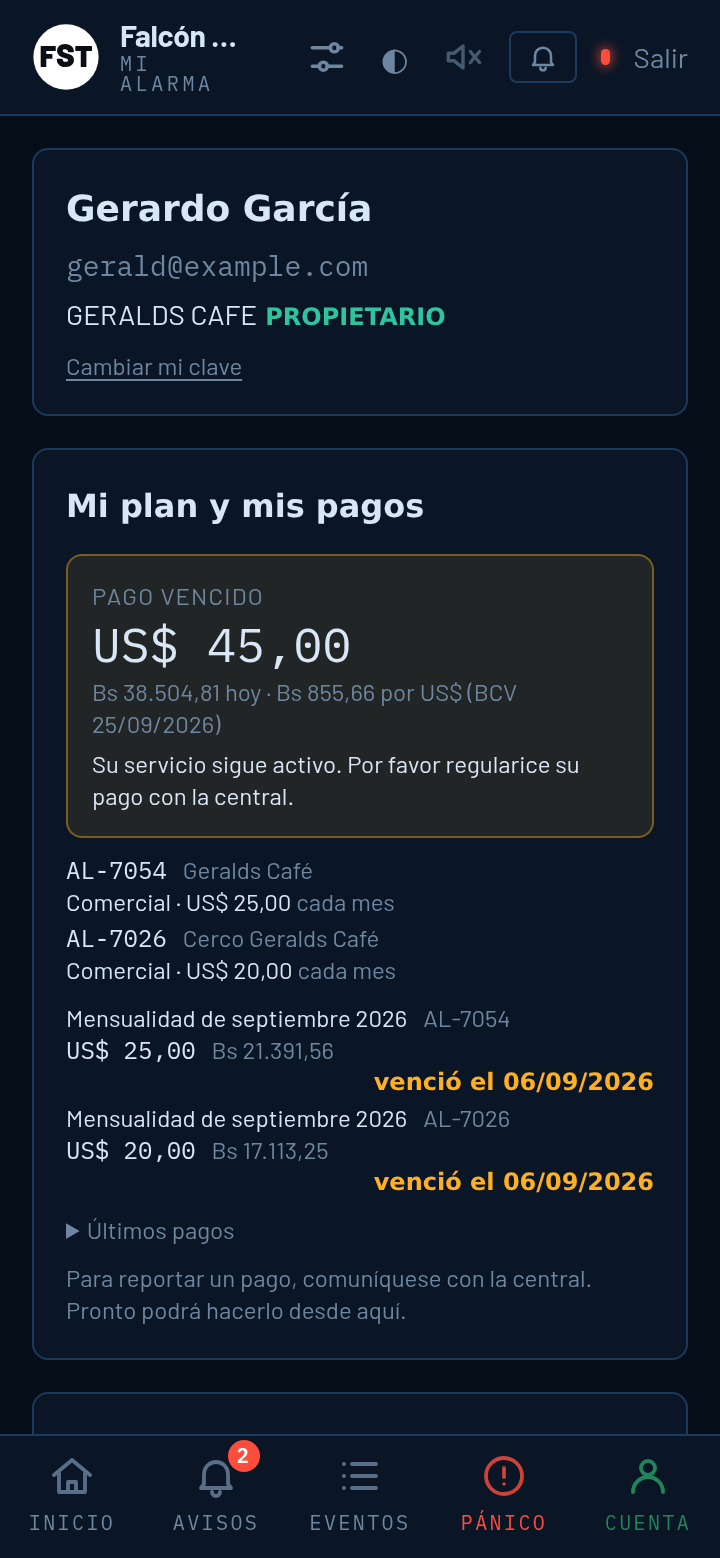
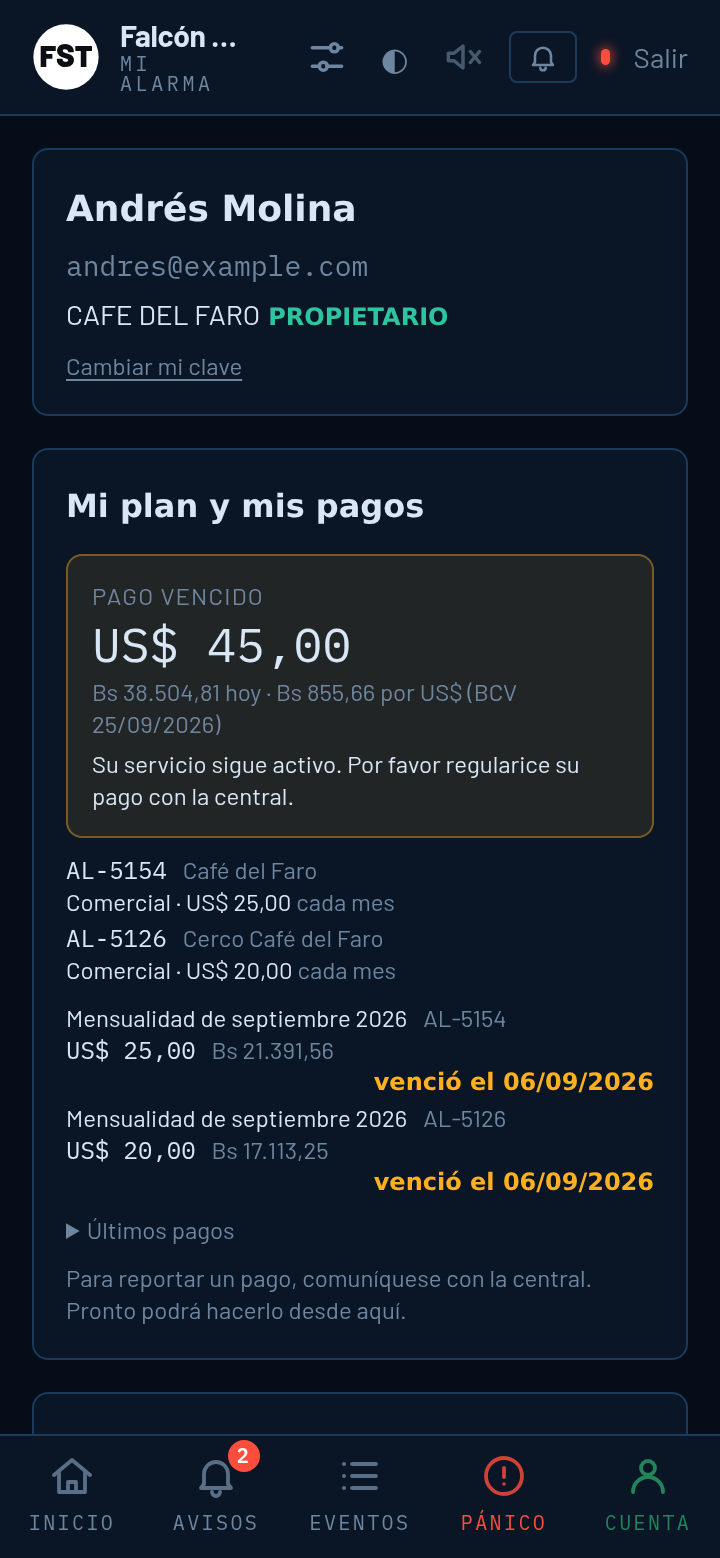
chore (harness + landing) : datos ficticios en vez de clientes reales
Los harness de la consola y las capturas del landing usaban nombres de
clientes, cuentas, contactos con teléfono y operadores reales. Ahora todo
es ficticio (Café del Faro, Panadería La Espiga, cuentas 51xx, teléfonos
0412-55501xx, operadores Daniel/Samuel/Valeria) y las capturas se
regeneraron con capturar.sh.

diff --git a/packages/console/harness/cliente.tsx b/packages/console/harness/cliente.tsx
@@ -13,8 +13,8 @@ const h = (dias: number, hora: string) => {
 // ?tipo=hikvision: el primer panel pasa a Hikvision, con estado detallado y control desde la app
 const tipoPanel = new URLSearchParams(location.search).get('tipo') === 'hikvision' ? 'hikvision' : 'pima';
 const panel = {
-  id: 50, numeroCuenta: '7054', prefijo: 'AL', tipo: tipoPanel, activo: true, ultimaSenalEn: h(0, '09:44'),
-  sitioId: 50, sitioNombre: 'Geralds Café', sitioDireccion: 'Variante Norte, Coro', clienteId: 50, clienteNombre: 'GERALDS CAFE',
+  id: 50, numeroCuenta: '5154', prefijo: 'AL', tipo: tipoPanel, activo: true, ultimaSenalEn: h(0, '09:44'),
+  sitioId: 50, sitioNombre: 'Café del Faro', sitioDireccion: 'Av. Los Médanos, Coro', clienteId: 50, clienteNombre: 'CAFE DEL FARO',
   estadoArmado: 'desarmado' as const, ultimoMovimientoEn: h(0, '11:22'),
 };
 const respuestas: Record<string, unknown> = {
@@ -32,26 +32,26 @@ const respuestas: Record<string, unknown> = {
     perifericos: [{ tipo: 'sirena', nombre: 'Sirena exterior', estado: 'normal', sabotaje: false }, { tipo: 'teclado', nombre: 'Teclado entrada', estado: 'normal', sabotaje: false }],
   },
   '/comandos': [
-    { id: 3, accion: 'armar', particion: '1', estado: 'ejecutado', detalle: null, creadoEn: h(0, '19:02'), resueltoEn: h(0, '19:02'), usuarioId: 9, usuarioNombre: 'Gerardo García', origen: 'cliente' },
-    { id: 2, accion: 'desarmar', particion: '1', estado: 'ejecutado', detalle: null, creadoEn: h(0, '07:58'), resueltoEn: h(0, '07:58'), usuarioId: 9, usuarioNombre: 'Gerardo García', origen: 'cliente' },
-    { id: 1, accion: 'armar', particion: '1', estado: 'ejecutado', detalle: null, creadoEn: h(1, '19:10'), resueltoEn: h(1, '19:10'), usuarioId: 2, usuarioNombre: 'Héctor', origen: 'operador' },
+    { id: 3, accion: 'armar', particion: '1', estado: 'ejecutado', detalle: null, creadoEn: h(0, '19:02'), resueltoEn: h(0, '19:02'), usuarioId: 9, usuarioNombre: 'Andrés Molina', origen: 'cliente' },
+    { id: 2, accion: 'desarmar', particion: '1', estado: 'ejecutado', detalle: null, creadoEn: h(0, '07:58'), resueltoEn: h(0, '07:58'), usuarioId: 9, usuarioNombre: 'Andrés Molina', origen: 'cliente' },
+    { id: 1, accion: 'armar', particion: '1', estado: 'ejecutado', detalle: null, creadoEn: h(1, '19:10'), resueltoEn: h(1, '19:10'), usuarioId: 2, usuarioNombre: 'Daniel', origen: 'operador' },
   ],
   'cliente/resumen': {
     paneles: [
       panel,
-      { ...panel, id: 24, numeroCuenta: '7026', sitioId: 24, sitioNombre: 'Cerco Geralds Café', sitioDireccion: 'Variante Norte, Coro', estadoArmado: 'armado' as const, ultimoMovimientoEn: h(0, '04:02'), ultimaSenalEn: h(0, '10:12') },
+      { ...panel, id: 24, numeroCuenta: '5126', sitioId: 24, sitioNombre: 'Cerco Café del Faro', sitioDireccion: 'Av. Los Médanos, Coro', estadoArmado: 'armado' as const, ultimoMovimientoEn: h(0, '04:02'), ultimaSenalEn: h(0, '10:12') },
     ],
     propietarioDe: [50],
   },
   'cliente/usuarios': [
-    { id: 9, nombre: 'Gerardo García', email: 'gerald@example.com', activo: true, clienteId: 50, clienteNombre: 'GERALDS CAFE', propietario: true, sitioId: null, sitioNombre: null, panelId: null },
-    { id: 12, nombre: 'Crisbelys Herrera', email: 'crisbelys@example.com', activo: true, clienteId: 50, clienteNombre: 'GERALDS CAFE', propietario: false, sitioId: null, sitioNombre: null, panelId: null },
-    { id: 14, nombre: 'Luis Alberto García', email: 'luis@example.com', activo: false, clienteId: 50, clienteNombre: 'GERALDS CAFE', propietario: false, sitioId: null, sitioNombre: null, panelId: null },
+    { id: 9, nombre: 'Andrés Molina', email: 'andres@example.com', activo: true, clienteId: 50, clienteNombre: 'CAFE DEL FARO', propietario: true, sitioId: null, sitioNombre: null, panelId: null },
+    { id: 12, nombre: 'Marta Lugo', email: 'marta@example.com', activo: true, clienteId: 50, clienteNombre: 'CAFE DEL FARO', propietario: false, sitioId: null, sitioNombre: null, panelId: null },
+    { id: 14, nombre: 'Pedro Salas', email: 'pedro@example.com', activo: false, clienteId: 50, clienteNombre: 'CAFE DEL FARO', propietario: false, sitioId: null, sitioNombre: null, panelId: null },
   ],
   'cliente/contactos': [
-    { id: 1, clienteId: 50, sitioId: 50, nombre: 'Enmanuel Chirinos', rol: 'Encargado', telefono: '04246009387', telefonoAlternativo: null, orden: 1, autorizadoCancelar: false },
-    { id: 2, clienteId: 50, sitioId: 50, nombre: 'Luis Alberto García', rol: 'Propietario', telefono: '04146835616', telefonoAlternativo: null, orden: 2, autorizadoCancelar: true },
-    { id: 3, clienteId: 50, sitioId: 50, nombre: 'Crisbelys Herrera', rol: 'Empleado', telefono: '04146780878', telefonoAlternativo: null, orden: 3, autorizadoCancelar: false },
+    { id: 1, clienteId: 50, sitioId: 50, nombre: 'Julio Navas', rol: 'Encargado', telefono: '0412-5550102', telefonoAlternativo: null, orden: 1, autorizadoCancelar: false },
+    { id: 2, clienteId: 50, sitioId: 50, nombre: 'Pedro Salas', rol: 'Propietario', telefono: '0412-5550103', telefonoAlternativo: null, orden: 2, autorizadoCancelar: true },
+    { id: 3, clienteId: 50, sitioId: 50, nombre: 'Marta Lugo', rol: 'Empleado', telefono: '0412-5550104', telefonoAlternativo: null, orden: 3, autorizadoCancelar: false },
   ],
   'cliente/alarmas': [],
   'cliente/cobros': {
@@ -59,15 +59,15 @@ const respuestas: Record<string, unknown> = {
     clientes: [
       {
         clienteId: 50,
-        nombre: 'Geralds Café',
+        nombre: 'Café del Faro',
         exonerado: false,
         dispositivos: [
-          { panelId: 23, numeroCuenta: '7054', prefijo: 'AL', sitioNombre: 'Geralds Café', exonerado: false, plan: 'Comercial', precioUsd: 25, meses: 1, proximoVencimiento: '2026-10-01' },
-          { panelId: 24, numeroCuenta: '7026', prefijo: 'AL', sitioNombre: 'Cerco Geralds Café', exonerado: false, plan: 'Comercial', precioUsd: 20, meses: 1, proximoVencimiento: '2026-10-01' },
+          { panelId: 23, numeroCuenta: '5154', prefijo: 'AL', sitioNombre: 'Café del Faro', exonerado: false, plan: 'Comercial', precioUsd: 25, meses: 1, proximoVencimiento: '2026-10-01' },
+          { panelId: 24, numeroCuenta: '5126', prefijo: 'AL', sitioNombre: 'Cerco Café del Faro', exonerado: false, plan: 'Comercial', precioUsd: 20, meses: 1, proximoVencimiento: '2026-10-01' },
         ],
         cuotasPendientes: [
-          { id: 9, concepto: 'Mensualidad de septiembre 2026', numeroCuenta: '7054', prefijo: 'AL', venceEn: '2026-09-06', montoUsd: 25, pagadoUsd: 0, vencida: true },
-          { id: 10, concepto: 'Mensualidad de septiembre 2026', numeroCuenta: '7026', prefijo: 'AL', venceEn: '2026-09-06', montoUsd: 20, pagadoUsd: 0, vencida: true },
+          { id: 9, concepto: 'Mensualidad de septiembre 2026', numeroCuenta: '5154', prefijo: 'AL', venceEn: '2026-09-06', montoUsd: 25, pagadoUsd: 0, vencida: true },
+          { id: 10, concepto: 'Mensualidad de septiembre 2026', numeroCuenta: '5126', prefijo: 'AL', venceEn: '2026-09-06', montoUsd: 20, pagadoUsd: 0, vencida: true },
         ],
         ultimosPagos: [
           { id: 2, fecha: '2026-08-03', montoUsd: 45, montoBs: 37200.5, forma: 'pago_movil', referencia: '4471', estado: 'confirmado' },
@@ -83,11 +83,11 @@ const respuestas: Record<string, unknown> = {
   'cliente/preferencias': { armadoDesarmado: true, averias: true, sistema: true, silencioDesde: '22:00', silencioHasta: '07:00' },
   'paneles/50/zonas': [
     { numero: '001', descripcion: 'Cocina - Atención al cliente INFRA' }, { numero: '002', descripcion: 'Oficina principal - Pasillo INFRA' },
-    { numero: '003', descripcion: 'Gerencia Oficina Gerardo INFRA' }, { numero: '005', descripcion: 'Puerta trasera MAG' },
+    { numero: '003', descripcion: 'Gerencia INFRA' }, { numero: '005', descripcion: 'Puerta trasera MAG' },
     { numero: '007', descripcion: 'Puerta trasera exterior PULSADOR' }, { numero: '008', descripcion: 'Caja PULSADOR' }, { numero: '014', descripcion: 'Entrada INFRA' },
   ],
   'cliente/eventos': [
-    { id: 1, panelId: 50, categoria: 'apertura', codigo: 'E401', descripcion: 'Apertura (desarmado): Apertura/Cierre por usuario — Crisbelys Herrera (cód. 6)', zona: '006', zonaDescripcion: null, ocurridoEn: h(0, '11:22') },
+    { id: 1, panelId: 50, categoria: 'apertura', codigo: 'E401', descripcion: 'Apertura (desarmado): Apertura/Cierre por usuario — Marta Lugo (cód. 6)', zona: '006', zonaDescripcion: null, ocurridoEn: h(0, '11:22') },
     { id: 2, panelId: 50, categoria: 'cierre', codigo: 'R401', descripcion: 'Cierre (armado): Apertura/Cierre por usuario — Augusto Hernández (cód. 1)', zona: '001', zonaDescripcion: null, ocurridoEn: h(0, '04:02') },
     { id: 3, panelId: 50, categoria: 'alarma', codigo: 'E130', descripcion: 'Robo: Robo perímetro', zona: '005', zonaDescripcion: 'Puerta trasera MAG', ocurridoEn: h(1, '23:41') },
     { id: 4, panelId: 50, categoria: 'restauracion', codigo: 'R130', descripcion: 'Restauración: Robo perímetro', zona: '005', zonaDescripcion: 'Puerta trasera MAG', ocurridoEn: h(1, '23:43') },
@@ -122,7 +122,7 @@ if (variante && estilos[variante]) {
 localStorage.setItem('monitoring.avisos.vistoHasta', String(hoy.getTime() - 20 * 3_600_000));
 createRoot(document.getElementById('raiz')!).render(
   <QueryClientProvider client={new QueryClient()}>
-    <PantallaCliente usuario={{ id: 9, email: 'gerald@example.com', nombre: 'Gerardo García', rol: 'cliente' }} />
+    <PantallaCliente usuario={{ id: 9, email: 'andres@example.com', nombre: 'Andrés Molina', rol: 'cliente' }} />
   </QueryClientProvider>,
 );
 // #avisos abre la pestaña de avisos; #panel abre la pantalla del panel

diff --git a/packages/console/harness/cola.tsx b/packages/console/harness/cola.tsx
@@ -5,25 +5,25 @@ import '../src/index.css';
 
 const alarma = (id: number, codigo: string, descripcion: string, cuenta: string, cliente: string, zona: string | null, estado: 'nueva' | 'en_atencion', prioridad = 2, tipo = 'robo', clienteId = 3) => ({
   id, estado, prioridad, operadorId: estado === 'en_atencion' ? 2 : null, creadoEn: '2026-09-15T02:49:46Z', tomadaEn: estado === 'en_atencion' ? '2026-09-17T15:40:02Z' : null, cerradaEn: null,
-  desenlace: null, motivo: null, resolucion: null, operadorNombre: estado === 'en_atencion' ? 'Héctor' : null, panelId: 3, zonaDescripcion: null, clienteId, clienteNombre: cliente, prefijo: 'AL',
+  desenlace: null, motivo: null, resolucion: null, operadorNombre: estado === 'en_atencion' ? 'Daniel' : null, panelId: 3, zonaDescripcion: null, clienteId, clienteNombre: cliente, prefijo: 'AL',
   evento: { id, senalId: 10, codigo, categoria: 'alarma', descripcion, numeroCuenta: cuenta, particion: '01', zona, ocurridoEn: '2026-09-15T02:49:46Z', tipo },
 });
 const alarmas = [
-  { ...alarma(1, 'E140', 'Alarma en zona 11', '7002', 'PANADERIA K3', '011', 'en_atencion'), restauradaEn: '2026-09-17T15:52:00Z' },
-  { ...alarma(2, 'E140', 'Alarma general', '7048', 'COMERCIAL GALIVEN', null, 'nueva', 2, 'robo', 8), panelId: 8 },
-  { ...alarma(3, 'E140', 'Alarma en zona 17', '7048', 'COMERCIAL GALIVEN', '017', 'nueva', 2, 'robo', 8), panelId: 8 },
-  { ...alarma(5, 'E140', 'Alarma en zona 18', '7048', 'COMERCIAL GALIVEN', '018', 'nueva', 2, 'robo', 8), panelId: 8 },
-  { ...alarma(4, 'E120', 'Pánico', '7075', 'ROMULO REYES', '004', 'nueva', 1, 'emergencia', 9), panelId: 9 },
-  { ...alarma(6, 'E301', 'Falla de red eléctrica', '7031', 'FARMACIA LA COSTA', null, 'nueva', 3, 'averia', 10), panelId: 10, prefijo: 'HIK' },
-  { ...alarma(7, 'E302', 'Batería baja', '7031', 'FARMACIA LA COSTA', null, 'nueva', 3, 'averia', 10), panelId: 10, prefijo: 'HIK' },
-  { ...alarma(8, 'PIMA-TO', 'No ha cerrado a horario', '7112', 'LICORERIA EL SOL', null, 'nueva', 3, 'horario', 11), panelId: 11 },
-  { ...alarma(9, 'E602', 'Prueba periódica', '7037', 'MATARILE', null, 'nueva', 5, 'prueba', 12), panelId: 12, prefijo: 'EBS' },
-  { ...alarma(10, 'SIS', 'Panel silencioso: sin señales hace 26 h', '7090', 'BODEGON CENTRAL', null, 'nueva', 2, 'sistema', 13), panelId: 13 },
-  { ...alarma(11, 'E130', 'Robo: Robo perímetro', '7016', 'FERRETERIA PEPINO', '001', 'nueva', 2, 'robo', 18), panelId: 18, creadoEn: new Date().toISOString(), enVerificacionHasta: new Date(Date.now() + 38_000).toISOString() },
+  { ...alarma(1, 'E140', 'Alarma en zona 11', '5102', 'PANADERIA LA ESPIGA', '011', 'en_atencion'), restauradaEn: '2026-09-17T15:52:00Z' },
+  { ...alarma(2, 'E140', 'Alarma general', '5148', 'COMERCIAL ANDINA', null, 'nueva', 2, 'robo', 8), panelId: 8 },
+  { ...alarma(3, 'E140', 'Alarma en zona 17', '5148', 'COMERCIAL ANDINA', '017', 'nueva', 2, 'robo', 8), panelId: 8 },
+  { ...alarma(5, 'E140', 'Alarma en zona 18', '5148', 'COMERCIAL ANDINA', '018', 'nueva', 2, 'robo', 8), panelId: 8 },
+  { ...alarma(4, 'E120', 'Pánico', '5175', 'RESIDENCIA MOLINA', '004', 'nueva', 1, 'emergencia', 9), panelId: 9 },
+  { ...alarma(6, 'E301', 'Falla de red eléctrica', '5131', 'FARMACIA VIDA', null, 'nueva', 3, 'averia', 10), panelId: 10, prefijo: 'HIK' },
+  { ...alarma(7, 'E302', 'Batería baja', '5131', 'FARMACIA VIDA', null, 'nueva', 3, 'averia', 10), panelId: 10, prefijo: 'HIK' },
+  { ...alarma(8, 'PIMA-TO', 'No ha cerrado a horario', '5112', 'LICORERIA EL MUELLE', null, 'nueva', 3, 'horario', 11), panelId: 11 },
+  { ...alarma(9, 'E602', 'Prueba periódica', '5137', 'DEPOSITO NORTE', null, 'nueva', 5, 'prueba', 12), panelId: 12, prefijo: 'EBS' },
+  { ...alarma(10, 'SIS', 'Panel silencioso: sin señales hace 26 h', '5190', 'BODEGON LOS MEDANOS', null, 'nueva', 2, 'sistema', 13), panelId: 13 },
+  { ...alarma(11, 'E130', 'Robo: Robo perímetro', '5116', 'FERRETERIA EL TORNILLO', '001', 'nueva', 2, 'robo', 18), panelId: 18, creadoEn: new Date().toISOString(), enVerificacionHasta: new Date(Date.now() + 38_000).toISOString() },
 ];
 const respuestas: Record<string, unknown> = {
-  '/contexto': { cliente: { id: 1, nombre: 'PANADERIA K3', telefono: null, instrucciones: null, estado: 'activo', motivoEstado: null }, sitio: { id: 3, nombre: 'PANADERIA K3', tipo: 'comercial', direccion: null, ciudad: null, referencia: null, latitud: null, longitud: null, telefono: null, llaves: null, instruccionesAcceso: null, instrucciones: null }, panel: { id: 3, numeroCuenta: '7002', alias: null, tipo: 'otro', marca: null, modelo: null, claveMaestra: null }, contactos: [], zonaDescripcion: null, pasos: ['Llamar al sitio y pedir la palabra clave', 'Llamar a los contactos por orden de la lista', 'Despachar móvil si no se puede verificar'], pasosCumplidos: [], horarios: [{ id: 1, panelId: 3, dias: 'LMXJV--', apertura: '07:00', cierre: '19:00', toleranciaMin: 15, activo: true }], usuariosPanel: [{ id: 1, panelId: 3, numero: '001', nombre: 'Ana Pérez', telefono: '0414-1111111', contactoId: null }, { id: 2, panelId: 3, numero: '006', nombre: 'Luis Gómez', telefono: null, contactoId: null }], previas: [{ id: 40, codigo: 'E140', descripcion: 'Alarma en zona 11', creadoEn: '2026-09-15T21:22:00Z', cerradaEn: '2026-09-15T21:40:00Z', desenlace: 'falsa_alarma', resolucion: 'Mascota u objeto en movimiento', operadorNombre: 'Brayan' }] },
-  '/acciones': [{ id: 1, alarmaId: 1, operadorId: 2, operadorNombre: 'Héctor', tipo: 'toma', detalle: 'Tomada tras 60 h 50 min de espera', creadoEn: '2026-09-17T15:40:02Z' }],
+  '/contexto': { cliente: { id: 1, nombre: 'PANADERIA LA ESPIGA', telefono: null, instrucciones: null, estado: 'activo', motivoEstado: null }, sitio: { id: 3, nombre: 'PANADERIA LA ESPIGA', tipo: 'comercial', direccion: null, ciudad: null, referencia: null, latitud: null, longitud: null, telefono: null, llaves: null, instruccionesAcceso: null, instrucciones: null }, panel: { id: 3, numeroCuenta: '5102', alias: null, tipo: 'otro', marca: null, modelo: null, claveMaestra: null }, contactos: [], zonaDescripcion: null, pasos: ['Llamar al sitio y pedir la palabra clave', 'Llamar a los contactos por orden de la lista', 'Despachar móvil si no se puede verificar'], pasosCumplidos: [], horarios: [{ id: 1, panelId: 3, dias: 'LMXJV--', apertura: '07:00', cierre: '19:00', toleranciaMin: 15, activo: true }], usuariosPanel: [{ id: 1, panelId: 3, numero: '001', nombre: 'Laura Ríos', telefono: '0412-5550101', contactoId: null }, { id: 2, panelId: 3, numero: '006', nombre: 'Carlos Peña', telefono: null, contactoId: null }], previas: [{ id: 40, codigo: 'E140', descripcion: 'Alarma en zona 11', creadoEn: '2026-09-15T21:22:00Z', cerradaEn: '2026-09-15T21:40:00Z', desenlace: 'falsa_alarma', resolucion: 'Mascota u objeto en movimiento', operadorNombre: 'Samuel' }] },
+  '/acciones': [{ id: 1, alarmaId: 1, operadorId: 2, operadorNombre: 'Daniel', tipo: 'toma', detalle: 'Tomada tras 60 h 50 min de espera', creadoEn: '2026-09-17T15:40:02Z' }],
   '/alarmas': alarmas,
 };
 window.fetch = async (entrada: RequestInfo | URL) => {

diff --git a/packages/console/harness/cobros.tsx b/packages/console/harness/cobros.tsx
@@ -4,26 +4,26 @@ import { Cobros } from '../src/vistas/Cobros.js';
 import '../src/index.css';
 
 const tasa = { valor: 855.6625, fechaValor: '2026-09-25', fuente: 'bcv', obtenidoEn: '2026-09-24T20:00:00Z' };
-const cuota = (id: number, concepto: string, desde: string, hasta: string, vence: string, monto: number, pagado: number, estado: string, cuenta = '7002') => ({
+const cuota = (id: number, concepto: string, desde: string, hasta: string, vence: string, monto: number, pagado: number, estado: string, cuenta = '5102') => ({
   id, panelId: 3, numeroCuenta: cuenta, prefijo: 'AL', concepto, periodoDesde: desde, periodoHasta: hasta, venceEn: vence, montoUsd: monto, pagadoUsd: pagado, estado,
 });
 const respuestas: Record<string, unknown> = {
   '/cobros/resumen': { morosos: 3, vencidoUsd: 185, pendienteUsd: 640, porVencer: 12, cobradoMesUsd: 1275, facturadoMesUsd: 1590, tasa },
   '/cobros/clientes/1': {
-    cliente: { id: 1, nombre: 'PANADERIA K3', exonerado: false },
+    cliente: { id: 1, nombre: 'PANADERIA LA ESPIGA', exonerado: false },
     dispositivos: [
-      { panelId: 3, numeroCuenta: '7002', prefijo: 'AL', sitioNombre: 'Panadería K3 · Centro', activo: true, exonerado: false, planId: 1, planNombre: 'Comercial', planPrecioUsd: 25, montoAbono: null, precioUsd: 25, meses: 1, proximoVencimiento: '2026-10-01' },
-      { panelId: 4, numeroCuenta: '7003', prefijo: 'AL', sitioNombre: 'Depósito', activo: true, exonerado: false, planId: 1, planNombre: 'Comercial', planPrecioUsd: 25, montoAbono: 20, precioUsd: 20, meses: 1, proximoVencimiento: '2026-10-01' },
+      { panelId: 3, numeroCuenta: '5102', prefijo: 'AL', sitioNombre: 'Panadería La Espiga · Centro', activo: true, exonerado: false, planId: 1, planNombre: 'Comercial', planPrecioUsd: 25, montoAbono: null, precioUsd: 25, meses: 1, proximoVencimiento: '2026-10-01' },
+      { panelId: 4, numeroCuenta: '5103', prefijo: 'AL', sitioNombre: 'Depósito', activo: true, exonerado: false, planId: 1, planNombre: 'Comercial', planPrecioUsd: 25, montoAbono: 20, precioUsd: 20, meses: 1, proximoVencimiento: '2026-10-01' },
     ],
     cuotas: [
       cuota(9, 'Mensualidad de septiembre 2026', '2026-09-01', '2026-09-30', '2026-09-06', 25, 0, 'pendiente'),
-      cuota(10, 'Mensualidad de septiembre 2026', '2026-09-01', '2026-09-30', '2026-09-06', 20, 0, 'pendiente', '7003'),
+      cuota(10, 'Mensualidad de septiembre 2026', '2026-09-01', '2026-09-30', '2026-09-06', 20, 0, 'pendiente', '5103'),
       cuota(7, 'Mensualidad de agosto 2026', '2026-08-01', '2026-08-31', '2026-08-06', 25, 25, 'pagada'),
-      cuota(8, 'Mensualidad de agosto 2026', '2026-08-01', '2026-08-31', '2026-08-06', 20, 20, 'pagada', '7003'),
+      cuota(8, 'Mensualidad de agosto 2026', '2026-08-01', '2026-08-31', '2026-08-06', 20, 20, 'pagada', '5103'),
       cuota(5, 'Mensualidad de julio 2026', '2026-07-01', '2026-07-31', '2026-07-06', 25, 25, 'pagada'),
     ],
     pagos: [
-      { id: 2, montoUsd: 45, montoBs: 37200.5, tasa: 826.68, forma: 'pago_movil', referencia: '4471', fecha: '2026-08-03', nota: null, estado: 'confirmado', registradoPorNombre: 'Frandder', creadoEn: '2026-08-03T14:00:00Z' },
+      { id: 2, montoUsd: 45, montoBs: 37200.5, tasa: 826.68, forma: 'pago_movil', referencia: '4471', fecha: '2026-08-03', nota: null, estado: 'confirmado', registradoPorNombre: 'Valeria', creadoEn: '2026-08-03T14:00:00Z' },
       { id: 1, montoUsd: 25, montoBs: null, tasa: null, forma: 'zelle', referencia: null, fecha: '2026-07-02', nota: 'pagó el hijo', estado: 'confirmado', registradoPorNombre: 'Admin', creadoEn: '2026-07-02T14:00:00Z' },
     ],
     pendienteUsd: 45,
@@ -32,12 +32,12 @@ const respuestas: Record<string, unknown> = {
     tasa,
   },
   '/cobros/clientes': [
-    { clienteId: 1, nombre: 'PANADERIA K3', telefono: null, exonerado: false, dispositivos: 2, pendienteUsd: 45, vencidoUsd: 45, cuotasVencidas: 2, proximaVence: '2026-09-06', ultimoPago: '2026-08-03' },
-    { clienteId: 2, nombre: 'COMERCIAL GALIVEN', telefono: null, exonerado: false, dispositivos: 1, pendienteUsd: 90, vencidoUsd: 90, cuotasVencidas: 3, proximaVence: '2026-07-06', ultimoPago: '2026-06-10' },
-    { clienteId: 3, nombre: 'FARMACIA LA COSTA', telefono: null, exonerado: false, dispositivos: 1, pendienteUsd: 50, vencidoUsd: 50, cuotasVencidas: 1, proximaVence: '2026-09-06', ultimoPago: '2026-08-28' },
-    { clienteId: 4, nombre: 'FERRETERIA PEPINO', telefono: null, exonerado: false, dispositivos: 1, pendienteUsd: 25, vencidoUsd: 0, cuotasVencidas: 0, proximaVence: '2026-10-06', ultimoPago: '2026-09-02' },
-    { clienteId: 5, nombre: 'LICORERIA EL SOL', telefono: null, exonerado: false, dispositivos: 1, pendienteUsd: 0, vencidoUsd: 0, cuotasVencidas: 0, proximaVence: null, ultimoPago: '2026-09-20' },
-    { clienteId: 6, nombre: 'ROMULO REYES', telefono: null, exonerado: true, dispositivos: 3, pendienteUsd: 0, vencidoUsd: 0, cuotasVencidas: 0, proximaVence: null, ultimoPago: '2026-09-15' },
+    { clienteId: 1, nombre: 'PANADERIA LA ESPIGA', telefono: null, exonerado: false, dispositivos: 2, pendienteUsd: 45, vencidoUsd: 45, cuotasVencidas: 2, proximaVence: '2026-09-06', ultimoPago: '2026-08-03' },
+    { clienteId: 2, nombre: 'COMERCIAL ANDINA', telefono: null, exonerado: false, dispositivos: 1, pendienteUsd: 90, vencidoUsd: 90, cuotasVencidas: 3, proximaVence: '2026-07-06', ultimoPago: '2026-06-10' },
+    { clienteId: 3, nombre: 'FARMACIA VIDA', telefono: null, exonerado: false, dispositivos: 1, pendienteUsd: 50, vencidoUsd: 50, cuotasVencidas: 1, proximaVence: '2026-09-06', ultimoPago: '2026-08-28' },
+    { clienteId: 4, nombre: 'FERRETERIA EL TORNILLO', telefono: null, exonerado: false, dispositivos: 1, pendienteUsd: 25, vencidoUsd: 0, cuotasVencidas: 0, proximaVence: '2026-10-06', ultimoPago: '2026-09-02' },
+    { clienteId: 5, nombre: 'LICORERIA EL MUELLE', telefono: null, exonerado: false, dispositivos: 1, pendienteUsd: 0, vencidoUsd: 0, cuotasVencidas: 0, proximaVence: null, ultimoPago: '2026-09-20' },
+    { clienteId: 6, nombre: 'RESIDENCIA MOLINA', telefono: null, exonerado: true, dispositivos: 3, pendienteUsd: 0, vencidoUsd: 0, cuotasVencidas: 0, proximaVence: null, ultimoPago: '2026-09-15' },
   ],
   '/planes': [
     { id: 1, nombre: 'Comercial', precioUsd: 25, frecuenciaMeses: 1, descripcion: 'Monitoreo 24 h y app', activo: true },

diff --git a/packages/console/harness/supervision.tsx b/packages/console/harness/supervision.tsx
@@ -6,26 +6,26 @@ import '../src/index.css';
 const hace = (min: number) => new Date(Date.now() - min * 60_000).toISOString();
 const respuestas: Record<string, unknown> = {
   '/actividad': {
-    operador: { id: 2, nombre: 'Héctor', email: 'hector@falconseguridadtotal.com' }, periodo: { desde: hace(10080), hasta: hace(0) },
+    operador: { id: 2, nombre: 'Daniel', email: 'daniel@falconseguridadtotal.com' }, periodo: { desde: hace(10080), hasta: hace(0) },
     acciones: [
-      { id: 9, creadoEn: hace(12), tipo: 'cierre', detalle: 'Falsa alarma tras 4 min 10 s en atención: Mascota u objeto en movimiento', alarmaId: 51, codigo: 'E140', descripcion: 'Alarma en zona 3', numeroCuenta: '7048', prefijo: 'AL', clienteNombre: 'COMERCIAL GALIVEN' },
-      { id: 8, creadoEn: hace(14), tipo: 'llamada', detalle: 'Llamada a Luis Pérez (0414-1234567): Atendió, palabra clave correcta', alarmaId: 51, codigo: 'E140', descripcion: 'Alarma en zona 3', numeroCuenta: '7048', prefijo: 'AL', clienteNombre: 'COMERCIAL GALIVEN' },
-      { id: 7, creadoEn: hace(16), tipo: 'toma', detalle: 'Tomada tras 45 s de espera', alarmaId: 51, codigo: 'E140', descripcion: 'Alarma en zona 3', numeroCuenta: '7048', prefijo: 'AL', clienteNombre: 'COMERCIAL GALIVEN' },
+      { id: 9, creadoEn: hace(12), tipo: 'cierre', detalle: 'Falsa alarma tras 4 min 10 s en atención: Mascota u objeto en movimiento', alarmaId: 51, codigo: 'E140', descripcion: 'Alarma en zona 3', numeroCuenta: '5148', prefijo: 'AL', clienteNombre: 'COMERCIAL ANDINA' },
+      { id: 8, creadoEn: hace(14), tipo: 'llamada', detalle: 'Llamada a Luis Pérez (0412-5550105): Atendió, palabra clave correcta', alarmaId: 51, codigo: 'E140', descripcion: 'Alarma en zona 3', numeroCuenta: '5148', prefijo: 'AL', clienteNombre: 'COMERCIAL ANDINA' },
+      { id: 7, creadoEn: hace(16), tipo: 'toma', detalle: 'Tomada tras 45 s de espera', alarmaId: 51, codigo: 'E140', descripcion: 'Alarma en zona 3', numeroCuenta: '5148', prefijo: 'AL', clienteNombre: 'COMERCIAL ANDINA' },
     ],
     sesiones: [{ id: 3, ingresoEn: hace(180), ultimaActividadEn: hace(2), ip: '::ffff:38.51.121.28', agente: null }],
-    hombreMuerto: [{ id: 30, ocurridoEn: hace(95), descripcion: 'HOMBRE MUERTO: hector@falconseguridadtotal.com no confirmó presencia en la consola' }],
+    hombreMuerto: [{ id: 30, ocurridoEn: hace(95), descripcion: 'HOMBRE MUERTO: daniel@falconseguridadtotal.com no confirmó presencia en la consola' }],
   },
   '/supervision': {
     periodo: { desde: hace(10080), hasta: hace(0) },
     operadores: [
-      { id: 2, nombre: 'Héctor', email: 'hector@falconseguridadtotal.com', rol: 'operador', activo: true, tomadas: 14, cerradas: 12, reaccionMediaSeg: 48, reaccionMaxSeg: 410, atencionMediaSeg: 262, desenlaces: { resuelta: 7, falsa_alarma: 4, escalada: 1 }, motivos: [], llamadas: 19, notas: 6, pasos: 21, devoluciones: 1, hombreMuerto: 1, sesiones: 5, horasEnServicio: 31.4, ultimaActividadEn: hace(2), enServicio: true },
-      { id: 3, nombre: 'Brayan', email: 'brayan@falconseguridadtotal.com', rol: 'operador', activo: true, tomadas: 9, cerradas: 9, reaccionMediaSeg: 150, reaccionMaxSeg: 900, atencionMediaSeg: 180, desenlaces: { resuelta: 6, falsa_alarma: 3, escalada: 0 }, motivos: [], llamadas: 0, notas: 2, pasos: 4, devoluciones: 0, hombreMuerto: 0, sesiones: 4, horasEnServicio: 26.0, ultimaActividadEn: hace(220), enServicio: false },
+      { id: 2, nombre: 'Daniel', email: 'daniel@falconseguridadtotal.com', rol: 'operador', activo: true, tomadas: 14, cerradas: 12, reaccionMediaSeg: 48, reaccionMaxSeg: 410, atencionMediaSeg: 262, desenlaces: { resuelta: 7, falsa_alarma: 4, escalada: 1 }, motivos: [], llamadas: 19, notas: 6, pasos: 21, devoluciones: 1, hombreMuerto: 1, sesiones: 5, horasEnServicio: 31.4, ultimaActividadEn: hace(2), enServicio: true },
+      { id: 3, nombre: 'Samuel', email: 'samuel@falconseguridadtotal.com', rol: 'operador', activo: true, tomadas: 9, cerradas: 9, reaccionMediaSeg: 150, reaccionMaxSeg: 900, atencionMediaSeg: 180, desenlaces: { resuelta: 6, falsa_alarma: 3, escalada: 0 }, motivos: [], llamadas: 0, notas: 2, pasos: 4, devoluciones: 0, hombreMuerto: 0, sesiones: 4, horasEnServicio: 26.0, ultimaActividadEn: hace(220), enServicio: false },
       { id: 1, nombre: 'Administrador', email: 'admin@monitoring.local', rol: 'admin', activo: true, tomadas: 0, cerradas: 24, reaccionMediaSeg: null, reaccionMaxSeg: null, atencionMediaSeg: null, desenlaces: { resuelta: 24, falsa_alarma: 0, escalada: 0 }, motivos: [], llamadas: 0, notas: 0, pasos: 0, devoluciones: 0, hombreMuerto: 0, sesiones: 9, horasEnServicio: 40.2, ultimaActividadEn: hace(1), enServicio: true },
     ],
     alertas: [
-      { tipo: 'sin_tomar', alarmaId: 60, prioridad: 1, texto: 'E120 Pánico (AL-7075) lleva 3 min sin tomar' },
-      { tipo: 'cierre_sin_llamada', alarmaId: 58, texto: 'Brayan cerró E130 Robo sin registrar ninguna llamada' },
-      { tipo: 'sin_actividad', usuarioId: 3, texto: 'Brayan no toca la consola hace 220 min' },
+      { tipo: 'sin_tomar', alarmaId: 60, prioridad: 1, texto: 'E120 Pánico (AL-5175) lleva 3 min sin tomar' },
+      { tipo: 'cierre_sin_llamada', alarmaId: 58, texto: 'Samuel cerró E130 Robo sin registrar ninguna llamada' },
+      { tipo: 'sin_actividad', usuarioId: 3, texto: 'Samuel no toca la consola hace 220 min' },
     ],
   },
 };

diff --git a/packages/landing/index.html b/packages/landing/index.html
@@ -670,19 +670,19 @@
 
   <div class="ticker" aria-hidden="true">
     <div class="ticker-fila">
-      <span>22:49:46 · AL-7075 · <b class="ro-c">PÁNICO</b> · OPERADOR EN LÍNEA</span>
-      <span>AL-7054 · <b class="ok-c">SISTEMA ARMADO</b> · GERARDO G. · 19:02</span>
-      <span>HIK-7031 · <b class="am-c">FALLA DE ELECTRICIDAD</b> · AVISO ENVIADO</span>
-      <span>AL-7112 · <b class="ru-c">NO CERRÓ A HORARIO</b> · LLAMANDO AL ENCARGADO</span>
-      <span>EBS-7037 · PRUEBA PERIÓDICA · <b class="ok-c">OK</b></span>
-      <span>BODEGÓN CENTRAL · <b class="am-c">SIN SEÑALES 26 H</b> · TÉCNICO NOTIFICADO</span>
+      <span>22:49:46 · AL-5175 · <b class="ro-c">PÁNICO</b> · OPERADOR EN LÍNEA</span>
+      <span>AL-5154 · <b class="ok-c">SISTEMA ARMADO</b> · ANDRÉS M. · 19:02</span>
+      <span>HIK-5131 · <b class="am-c">FALLA DE ELECTRICIDAD</b> · AVISO ENVIADO</span>
+      <span>AL-5112 · <b class="ru-c">NO CERRÓ A HORARIO</b> · LLAMANDO AL ENCARGADO</span>
+      <span>EBS-5137 · PRUEBA PERIÓDICA · <b class="ok-c">OK</b></span>
+      <span>BODEGÓN LOS MÉDANOS · <b class="am-c">SIN SEÑALES 26 H</b> · TÉCNICO NOTIFICADO</span>
       <span>AVISO PUSH · <b class="ok-c">RECIBIDO Y HABLADO</b> · 2 S</span>
-      <span>22:49:46 · AL-7075 · <b class="ro-c">PÁNICO</b> · OPERADOR EN LÍNEA</span>
-      <span>AL-7054 · <b class="ok-c">SISTEMA ARMADO</b> · GERARDO G. · 19:02</span>
-      <span>HIK-7031 · <b class="am-c">FALLA DE ELECTRICIDAD</b> · AVISO ENVIADO</span>
-      <span>AL-7112 · <b class="ru-c">NO CERRÓ A HORARIO</b> · LLAMANDO AL ENCARGADO</span>
-      <span>EBS-7037 · PRUEBA PERIÓDICA · <b class="ok-c">OK</b></span>
-      <span>BODEGÓN CENTRAL · <b class="am-c">SIN SEÑALES 26 H</b> · TÉCNICO NOTIFICADO</span>
+      <span>22:49:46 · AL-5175 · <b class="ro-c">PÁNICO</b> · OPERADOR EN LÍNEA</span>
+      <span>AL-5154 · <b class="ok-c">SISTEMA ARMADO</b> · ANDRÉS M. · 19:02</span>
+      <span>HIK-5131 · <b class="am-c">FALLA DE ELECTRICIDAD</b> · AVISO ENVIADO</span>
+      <span>AL-5112 · <b class="ru-c">NO CERRÓ A HORARIO</b> · LLAMANDO AL ENCARGADO</span>
+      <span>EBS-5137 · PRUEBA PERIÓDICA · <b class="ok-c">OK</b></span>
+      <span>BODEGÓN LOS MÉDANOS · <b class="am-c">SIN SEÑALES 26 H</b> · TÉCNICO NOTIFICADO</span>
       <span>AVISO PUSH · <b class="ok-c">RECIBIDO Y HABLADO</b> · 2 S</span>
     </div>
   </div>
@@ -799,8 +799,8 @@
              alt="La app FST Alarma: cada sitio con su candado, protegido en verde o desarmado en ámbar, y la última señal recibida. Datos de demostración." /></picture>
       </figure>
       <div class="fono-card card-vivo">EN VIVO · 2 SITIOS PROTEGIDOS</div>
-      <div class="fono-card card-unidad"><b>Geralds Café</b><span>armado por Gerardo · 19:02</span></div>
-      <div class="fono-card card-alerta"><b>AL-7054</b><span>alarma en zona 3, cocina</span></div>
+      <div class="fono-card card-unidad"><b>Café del Faro</b><span>armado por Andrés · 19:02</span></div>
+      <div class="fono-card card-alerta"><b>AL-5154</b><span>alarma en zona 3, cocina</span></div>
     </div>
   </section>
 
@@ -972,7 +972,7 @@
       <input name="nombre" required minlength="2" maxlength="120" autocomplete="name" />
     </label>
     <label>Teléfono
-      <input name="telefono" required maxlength="40" autocomplete="tel" placeholder="0414 000 0000" />
+      <input name="telefono" required maxlength="40" autocomplete="tel" placeholder="0412-5550106" />
     </label>
     <label>Correo (opcional)
       <input name="email" type="email" maxlength="254" autocomplete="email" />

diff --git a/packages/console/harness/senales.tsx b/packages/console/harness/senales.tsx
@@ -17,25 +17,25 @@ const escaneo = (min: number, fuente: string, remoto: string, motivo: string, cr
 });
 const senales = [
   latido(1, 'surgard-tcp', '::ffff:156.67.31.152:51442', '1011 @'),
-  ok(3, 'pima-bridge', 'puente-pima-central', '7006', 'AL', 'GERALDS C.A.', '1061 7006 TH'),
+  ok(3, 'pima-bridge', 'puente-pima-central', '5106', 'AL', 'CAFE DEL FARO C.A.', '1061 5106 TH'),
   escaneo(4, 'dc09-tcp', '::ffff:147.182.225.86:47298', 'petición HTTP', 'GET / HTTP/1.1 Host: 37.60.234.77 User-Agent: Mozilla/5.0 (Windows NT 6.1)'),
-  ok(6, 'dc09-tcp', '::ffff:190.202.14.77:2051', '7001', 'HIK', 'VANGAT', '\n5C3A0032"ADM-CID"0043L0#7001[#7001|1401 01 003]_18:27:41,09-21-2026\r'),
+  ok(6, 'dc09-tcp', '::ffff:190.202.14.77:2051', '5101', 'HIK', 'VANGAT', '\n5C3A0032"ADM-CID"0043L0#5101[#5101|1401 01 003]_18:27:41,09-21-2026\r'),
   latido(6, 'surgard-tcp', '::ffff:156.67.31.152:51442', '1011 @'),
-  ok(8, 'pima-bridge', 'puente-pima-central', '7054', 'AL', 'GERALDS CAFE', '1061 7054 SX'),
+  ok(8, 'pima-bridge', 'puente-pima-central', '5154', 'AL', 'CAFE DEL FARO', '1061 5154 SX'),
   escaneo(9, 'dc09-udp', '::ffff:87.106.201.248:5060', 'sondeo SIP', 'INVITE sip:37.60.234.77 SIP/2.0 Via: SIP/2.0/UDP 87.106.201.248:5060'),
-  ok(11, 'pima-bridge', 'puente-pima-central', '7048', 'AL', 'COMERCIAL GALIVEN', '1061 7048 AQ'),
+  ok(11, 'pima-bridge', 'puente-pima-central', '5148', 'AL', 'COMERCIAL ANDINA', '1061 5148 AQ'),
   latido(11, 'surgard-tcp', '::ffff:156.67.31.152:51442', '1011 @'),
-  ok(12, 'surgard-tcp', '::ffff:156.67.31.152:51442', '7037', 'EBS', 'Unidad Educativa Colegio Matarile', '5011 187037E60200000'),
+  ok(12, 'surgard-tcp', '::ffff:156.67.31.152:51442', '5137', 'EBS', 'Unidad Educativa Colegio Depósito Norte', '5011 187037E60200000'),
   escaneo(14, 'dc09-tcp', '::ffff:45.135.193.198:39102', 'saludo TLS', '\x16\x03\x01\x02\x00\x01\x00\x01\xfc\x03\x03'),
-  ok(15, 'dc09-tcp', '::ffff:190.202.14.77:2051', '7001', 'HIK', 'VANGAT', '\n8A3B0032"ADM-CID"0042L0#7001[#7001|3401 01 003]_18:18:02,09-21-2026\r'),
+  ok(15, 'dc09-tcp', '::ffff:190.202.14.77:2051', '5101', 'HIK', 'VANGAT', '\n8A3B0032"ADM-CID"0042L0#5101[#5101|3401 01 003]_18:18:02,09-21-2026\r'),
   latido(16, 'surgard-tcp', '::ffff:156.67.31.152:51442', '1011 @'),
-  ok(19, 'pima-bridge', 'puente-pima-central', '7016', 'AL', 'FERRETERIA PEPINO', '1061 7016 TH'),
+  ok(19, 'pima-bridge', 'puente-pima-central', '5116', 'AL', 'FERRETERIA EL TORNILLO', '1061 5116 TH'),
   escaneo(20, 'pima-bridge', '::ffff:94.154.43.7:60322', 'sondeo Zabbix', 'ZBXD'),
   latido(21, 'surgard-tcp', '::ffff:156.67.31.152:51442', '1011 @'),
-  ok(24, 'pima-bridge', 'puente-pima-central', '7075', 'AL', 'ROMULO REYES', '1061 7075 QT'),
+  ok(24, 'pima-bridge', 'puente-pima-central', '5175', 'AL', 'RESIDENCIA MOLINA', '1061 5175 QT'),
   escaneo(25, 'dc09-tcp', '::ffff:18.116.101.220:44120', 'petición HTTP', 'GET /robots.txt HTTP/1.1 Host: 37.60.234.77:9999 User-Agent: visionheight.com/scan'),
   latido(26, 'surgard-tcp', '::ffff:156.67.31.152:51442', '1011 @'),
-  ok(29, 'pima-bridge', 'puente-pima-central', '7031', 'AL', 'FARMACIA LA COSTA', '1061 7031 SP'),
+  ok(29, 'pima-bridge', 'puente-pima-central', '5131', 'AL', 'FARMACIA VIDA', '1061 5131 SP'),
 ];
 window.fetch = async (entrada: RequestInfo | URL) => {
   const url = String(entrada);

diff --git a/packages/console/harness/inicio.tsx b/packages/console/harness/inicio.tsx
@@ -6,8 +6,8 @@ import '../src/index.css';
 const respuestas: Record<string, unknown> = {
   'cliente/resumen': {
     paneles: [
-      { id: 2, numeroCuenta: '7037', tipo: 'hikvision', activo: true, ultimaSenalEn: '2026-09-16T19:05:00Z', sitioId: 2, sitioNombre: 'Oficina Falcon', sitioDireccion: 'Av. Manaure, Coro', clienteId: 1, clienteNombre: 'Falcon Seguridad Total', estadoArmado: 'armado', ultimoMovimientoEn: '2026-09-16T19:02:00Z' },
-      { id: 3, numeroCuenta: '7002', tipo: 'pima', activo: true, ultimaSenalEn: '2026-09-16T18:54:00Z', sitioId: 3, sitioNombre: 'Panadería K3', sitioDireccion: 'Calle Zamora, Coro', clienteId: 1, clienteNombre: 'Falcon Seguridad Total', estadoArmado: 'desarmado', ultimoMovimientoEn: '2026-09-16T10:44:00Z' },
+      { id: 2, numeroCuenta: '5137', tipo: 'hikvision', activo: true, ultimaSenalEn: '2026-09-16T19:05:00Z', sitioId: 2, sitioNombre: 'Oficina Falcon', sitioDireccion: 'Av. Manaure, Coro', clienteId: 1, clienteNombre: 'Falcon Seguridad Total', estadoArmado: 'armado', ultimoMovimientoEn: '2026-09-16T19:02:00Z' },
+      { id: 3, numeroCuenta: '5102', tipo: 'pima', activo: true, ultimaSenalEn: '2026-09-16T18:54:00Z', sitioId: 3, sitioNombre: 'Panadería La Espiga', sitioDireccion: 'Calle Zamora, Coro', clienteId: 1, clienteNombre: 'Falcon Seguridad Total', estadoArmado: 'desarmado', ultimoMovimientoEn: '2026-09-16T10:44:00Z' },
     ],
   },
   'cliente/alarmas': [],
@@ -30,7 +30,7 @@ const pestana = new URLSearchParams(location.search).get('p');
 if (pestana) localStorage.setItem('harness.pestana', pestana);
 createRoot(document.getElementById('raiz')!).render(
   <QueryClientProvider client={new QueryClient()}>
-    <PantallaCliente usuario={{ id: 5, email: 'ana@cliente.com', nombre: 'Ana Pérez', rol: 'cliente' }} />
+    <PantallaCliente usuario={{ id: 5, email: 'ana@cliente.com', nombre: 'Laura Ríos', rol: 'cliente' }} />
   </QueryClientProvider>,
 );
 // ?p=eventos: abre la pestaña de eventos una vez montada la pantalla

diff --git a/packages/console/harness/dispositivo.tsx b/packages/console/harness/dispositivo.tsx
@@ -6,7 +6,7 @@ import '../src/index.css';
 const t = (min: number) => new Date(Date.now() - min * 60_000).toISOString();
 let id = 5000;
 const ev = (min: number, categoria: string, codigo: string, descripcion: string, zona: string | null, zonaDescripcion: string | null, tipo: string, prioridad = 3) => ({
-  id: id--, senalId: id, panelId: 92, numeroCuenta: '7037', prefijo: 'HIK', categoria, codigo, descripcion, particion: '01', zona, zonaDescripcion, prioridad, tipo, ocurridoEn: t(min),
+  id: id--, senalId: id, panelId: 92, numeroCuenta: '5137', prefijo: 'HIK', categoria, codigo, descripcion, particion: '01', zona, zonaDescripcion, prioridad, tipo, ocurridoEn: t(min),
 });
 const eventos = [
   ev(3, 'prueba', 'E602', 'Prueba periódica', null, null, 'prueba', 5),
@@ -22,7 +22,7 @@ const eventos = [
   ev(1500, 'sistema', 'SIS', 'Panel silencioso: sin señales hace 36 h', null, null, 'sistema', 2),
 ];
 const panel = {
-  id: 92, sitioId: 92, numeroCuenta: '7037', prefijo: 'HIK', tipo: 'hikvision', marca: 'Hikvision', modelo: 'DS-PHA20-W2P', supervisado: true, intervaloPruebaMin: 1440,
+  id: 92, sitioId: 92, numeroCuenta: '5137', prefijo: 'HIK', tipo: 'hikvision', marca: 'Hikvision', modelo: 'DS-PHA20-W2P', supervisado: true, intervaloPruebaMin: 1440,
   ultimaSenalEn: t(3), activo: true, alias: 'Test Hikvision', propiedad: 'propio', frecuenciaMeses: 1, proximoVencimiento: null, montoAbono: null,
   sitioNombre: 'Test Hikvision', clienteId: 2, clienteNombre: 'Falcon Seguridad Total', ventanaCancelacionSeg: 25, enPruebaHasta: null,
 };

diff --git a/packages/console/harness/panel.tsx b/packages/console/harness/panel.tsx
@@ -3,7 +3,7 @@ import { QueryClient, QueryClientProvider } from '@tanstack/react-query';
 import { PanelHikvision } from '../src/cliente/PanelHikvision.js';
 import '../src/index.css';
 
-// Muestra con datos fijos: la forma exacta que devuelve el servidor para el panel 7037
+// Muestra con datos fijos: la forma exacta que devuelve el servidor para el panel 5137
 const respuestas: Record<string, unknown> = {
   'estado-detallado': {
     particiones: [{ particion: 1, nombre: 'Bella Nova', habilitada: true, estado: 'armado_casa', enAlarma: false }],
@@ -35,7 +35,7 @@ window.fetch = async (entrada: RequestInfo | URL) => {
 };
 
 const panel = {
-  id: 2, numeroCuenta: '7037', tipo: 'hikvision', activo: true, ultimaSenalEn: '2026-09-16T19:05:00Z',
+  id: 2, numeroCuenta: '5137', tipo: 'hikvision', activo: true, ultimaSenalEn: '2026-09-16T19:05:00Z',
   sitioId: 2, sitioNombre: 'Oficina Falcon', sitioDireccion: 'Coro', clienteId: 1, clienteNombre: 'Falcon Seguridad Total',
   estadoArmado: 'armado' as const, ultimoMovimientoEn: '2026-09-16T19:02:00Z',
 };
